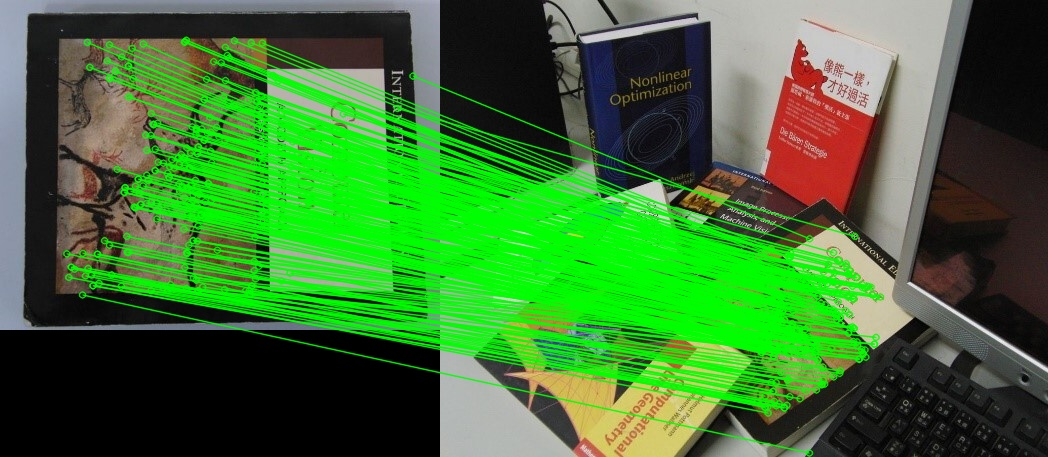
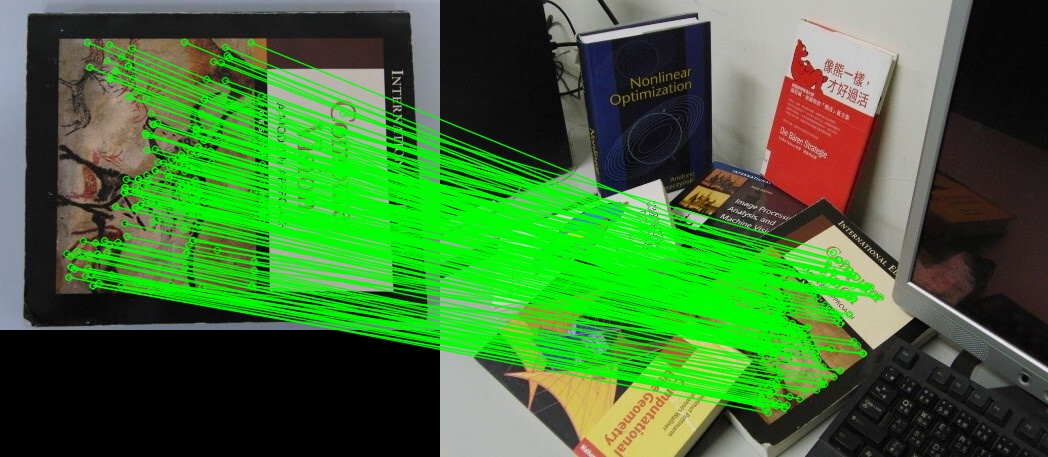
[UPDATE] ratio test before RANSAC

diff --git a/1/HW3-1.py b/1/HW3-1.py
@@ -16,13 +16,14 @@ def sift_detect(image):
     return SiftFeature(kp, descriptor)
 
 
-def sift_matching(left_desc, right_desc, threshold=200):
+def sift_matching(left_desc, right_desc, threshold=0.7):
     matches = []
     for q, desc in enumerate(left_desc):
         distance = np.linalg.norm(desc - right_desc, axis=-1)
-        min_idx = np.argmin(distance)
-        if distance[min_idx] < threshold:
-            matches.append([cv2.DMatch(q, min_idx, distance[min_idx])])
+        sorted_idx = np.argsort(distance)
+        t0, t1 = sorted_idx[0:2]
+        if distance[t0] / distance[t1] < threshold:
+            matches.append([cv2.DMatch(q, t0, distance[t0])])
 
     return matches
 
@@ -48,7 +49,7 @@ def solve_homography(pts1, pts2):
     return x
 
 
-def ransac_matching(points, rounds=1000, agree_threshold=100):
+def ransac_matching(points, rounds=1000, agree_threshold=10):
     max_agrees = -1
     best_agree_idx = None
     for _ in range(rounds):
@@ -97,7 +98,7 @@ if __name__ == '__main__':
         output_dir.mkdir(parents=True, exist_ok=True)
 
     books = [cv2.imread('1-book1.jpg'), cv2.imread('1-book2.jpg'), cv2.imread('1-book3.jpg')]
-    thresholds = [283, 200, 301]
+    thresholds = [0.8, 0.8, 0.7]
     image = cv2.imread('1-image.jpg')
     image_feat = sift_detect(image)
 
@@ -116,7 +117,7 @@ if __name__ == '__main__':
         flattened_matches = list(chain.from_iterable(matches_idx))
         pts = points_from_matches(flattened_matches, book_feat, image_feat)
 
-        best_agrees = ransac_matching(pts, agree_threshold=50)
+        best_agrees = ransac_matching(pts, agree_threshold=3)
 
         matches_idx = [[cv2.DMatch(i, i, 0)] for i in range(best_agrees.sum())]
         matched_book_kp = pick_agreed_keypoints(book_feat, flattened_matches, 'queryIdx', best_agrees)
